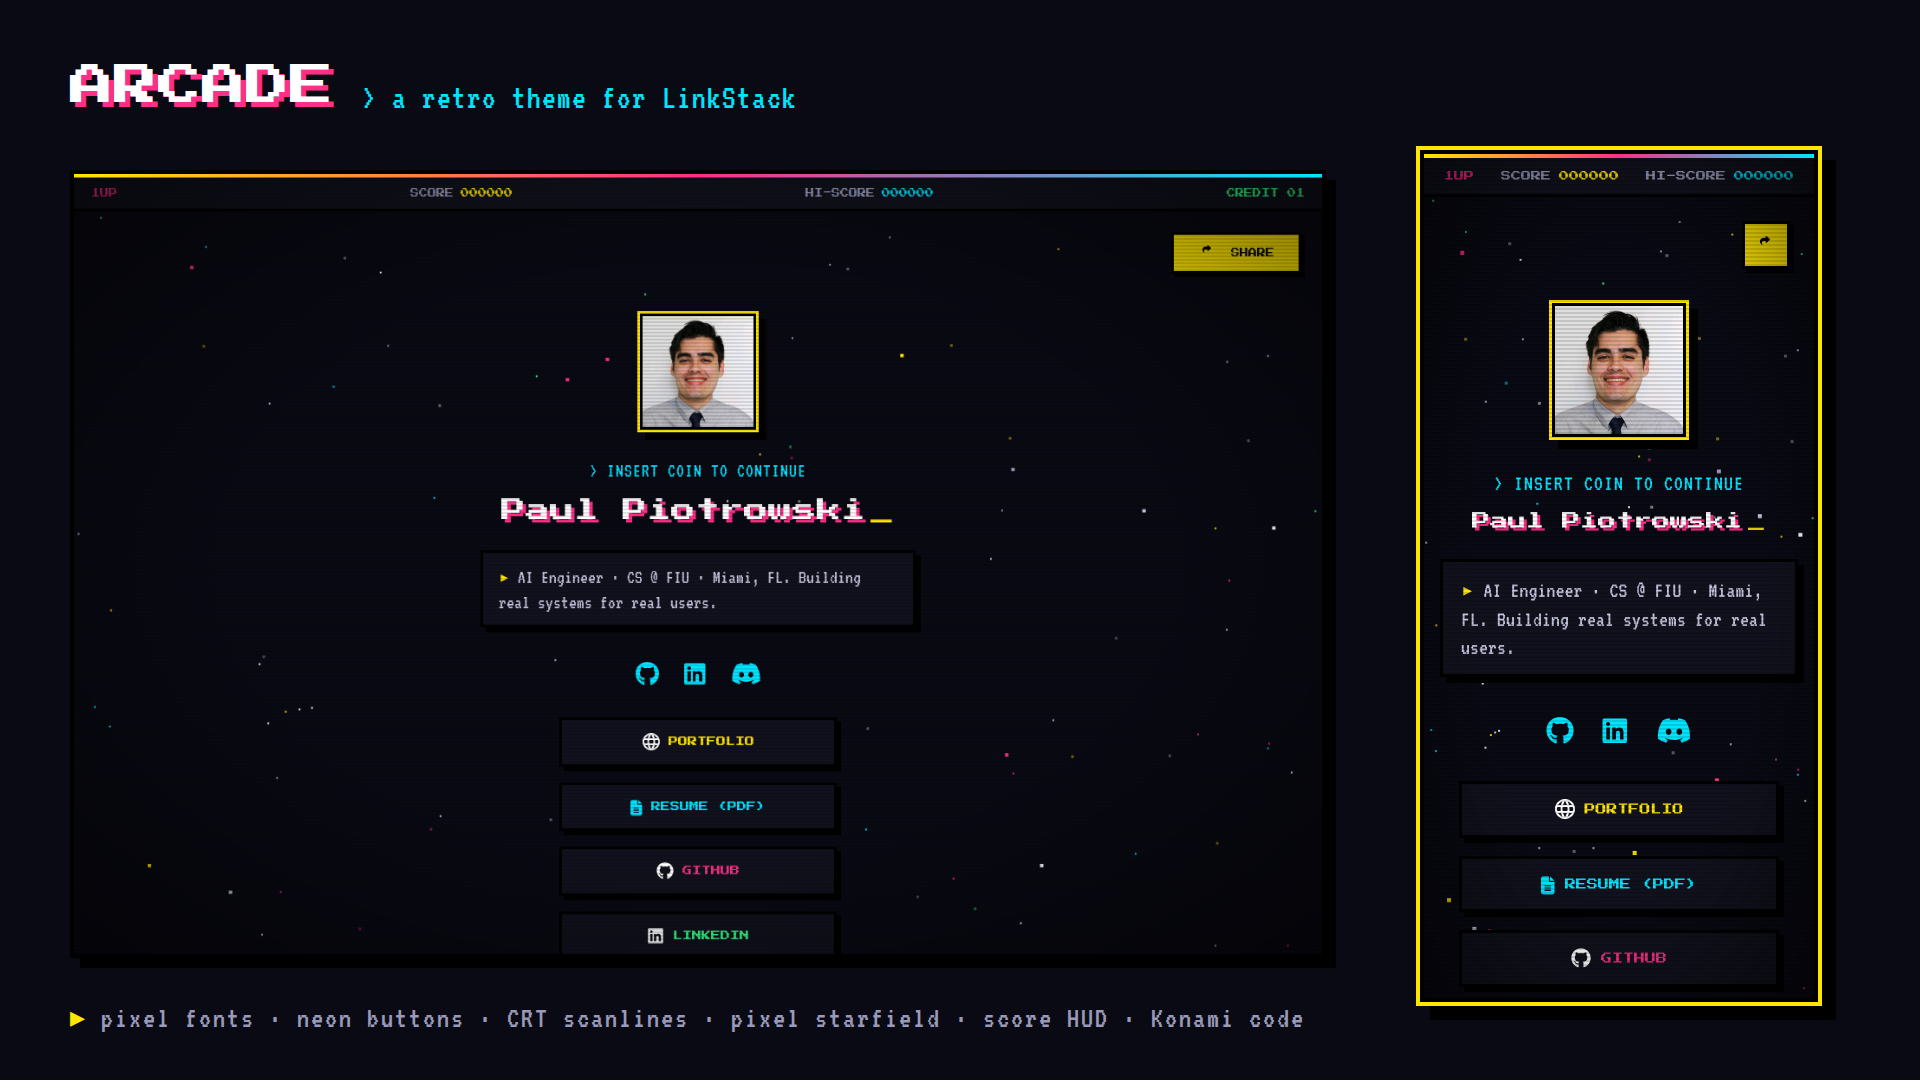
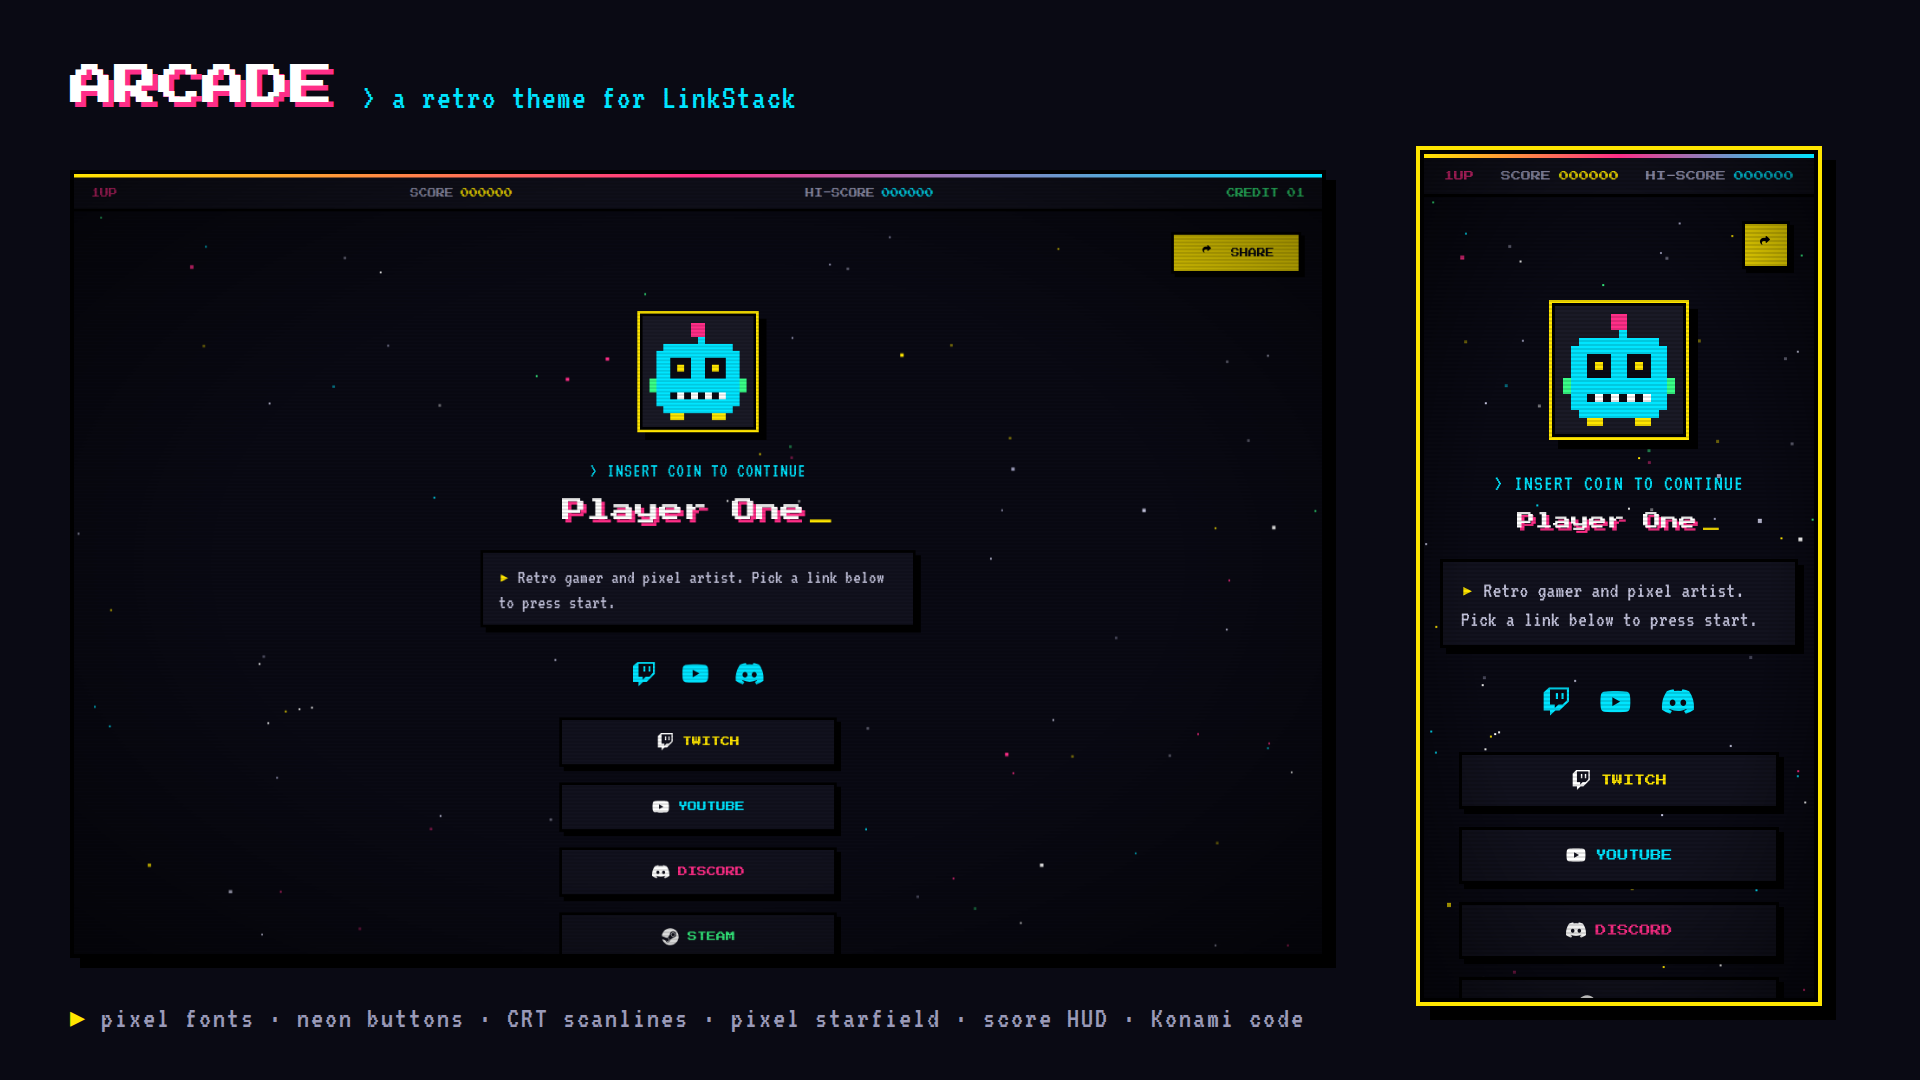
Use generic demo content in preview
Preview now shows a generic "Player One" profile with an original pixel
robot avatar and gaming links. Drop personal site references from the
readme and CSS comments.

Claude-Session: https://claude.ai/code/session_01Nb4VZGTepieJJP5QX64rGL

diff --git a/skeleton-auto.css b/skeleton-auto.css
@@ -1,7 +1,7 @@
 /* ************************************************************* */
 /*
 /* Arcade — a retro arcade theme for LinkStack
-/* Colors and fonts match paulpio.com
+/* Neon arcade palette with pixel fonts
 /*
 /* ************************************************************* */
 
@@ -333,7 +333,7 @@ hr {
 
 /* CRT overlay
 –––––––––––––––––––––––––––––––––––––––––––––––––– */
-/* Neon stripe along the top, like the progress bar on paulpio.com */
+/* Neon stripe along the top */
 body::before {
   content: "";
   position: fixed;

diff --git a/brands.css b/brands.css
@@ -81,7 +81,7 @@ button {
 .social-icon-div ~ .button-entrance:nth-of-type(4n+4) .button { --accent: var(--arcade-pink); }
 .social-icon-div ~ .button-entrance:nth-of-type(4n+1) .button { --accent: var(--arcade-green); }
 
-/* Hover: fill with the accent and press down, like the buttons on paulpio.com */
+/* Hover: fill with the accent and press down like an arcade button */
 .button:hover,
 .button:focus-visible,
 button:hover {

diff --git a/readme.md b/readme.md
@@ -11,7 +11,7 @@ Find more themes: https://github.com/LinkStackOrg/linkstack-themes
 
 ![Arcade preview](preview.png)
 
-A dark retro arcade theme, styled like the arcade look of [paulpio.com](https://paulpio.com).
+A dark retro arcade theme for LinkStack: pixel fonts, neon buttons and CRT vibes.
 
 ### Features
 * Pixel fonts: Press Start 2P for the name and buttons, VT323 for text. Both are bundled, so no Google Fonts requests.
